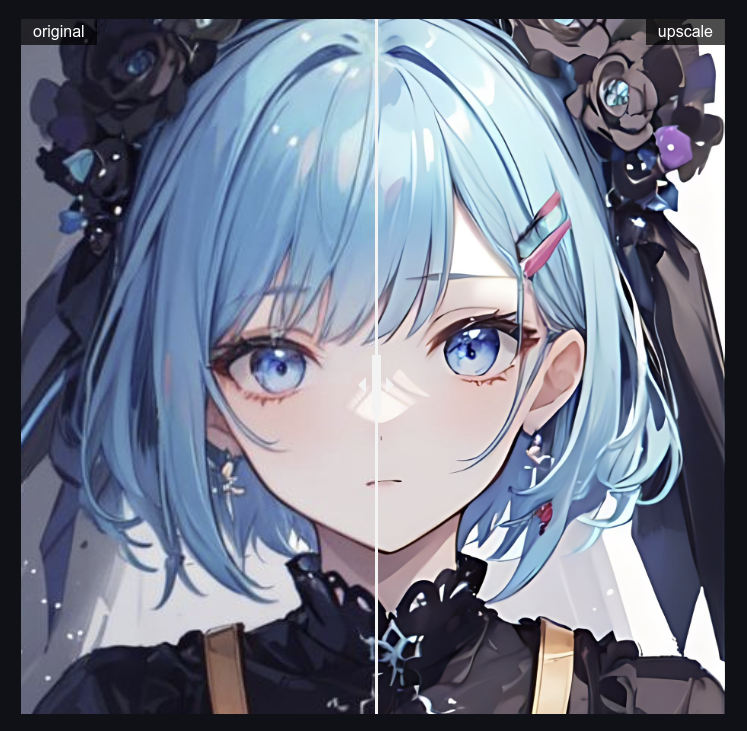
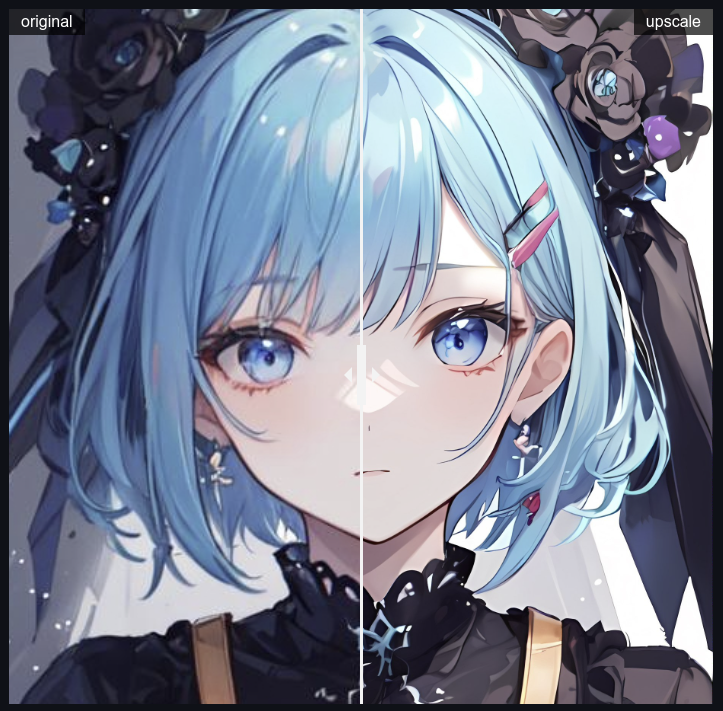
docs: README add support models

diff --git a/README.md b/README.md
@@ -6,7 +6,7 @@
 
 **🌟Support upscale video and image**
 
-**🌠Support realesrgan-x4plus model**
+**🌠Support models:** *RealESRGAN_x4plus*, *RealESRGAN_x4plus_anime_6B*, *realesr-animevideo_v3*, *realesr-general-x4v3* 
 
 
 ### Real-ESRGAN: Training Real-World Blind Super-Resolution with Pure Synthetic Data
